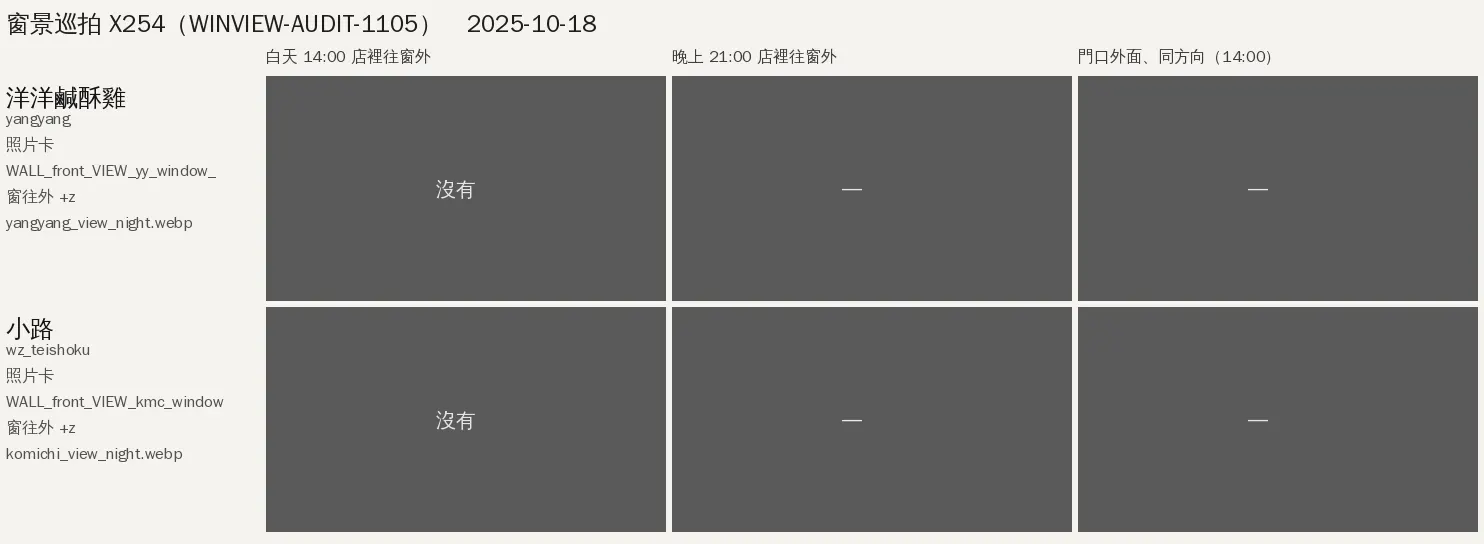
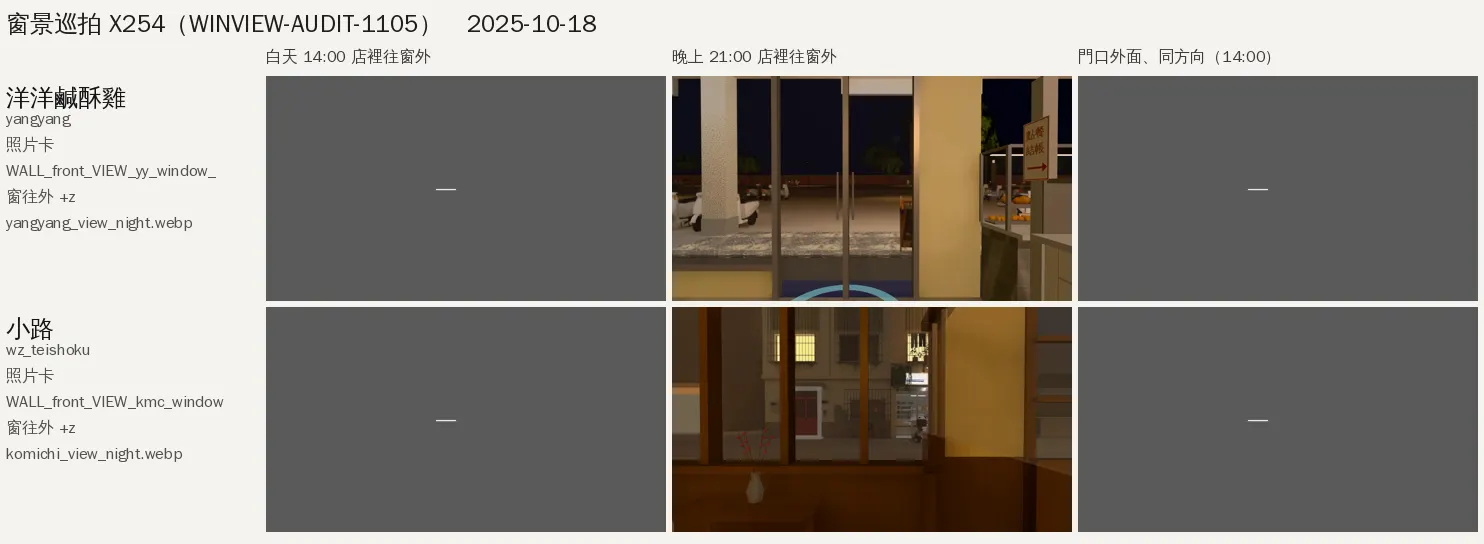
CC（帳號 A）X254 補拍：拼圖 own 欄只找 day＝TEST_BUG 修好重做；探針 r2（OWN_ALL、玻璃範圍夾站位、MAXD）；排 own2／haopai2／tea21
Claude-Session: https://claude.ai/code/session_01TdESzxBpdGoPhdkPD2ENce

Changed region(s): [[0.434, 0.125, 0.7439, 1.0], [0.279, 0.75, 0.341, 0.7812], [0.279, 0.3438, 0.31, 0.375]]

diff --git a/docs/story_planning/test_tools/cc/cc_winview_audit_probe.py b/docs/story_planning/test_tools/cc/cc_winview_audit_probe.py
@@ -15,6 +15,7 @@
   只 check：進得了那個區域、窗景卡找得到、截圖有存；美術像不像 BB 判（不判 PASS／FAIL）。21:00 店關了：讀檔放得進去就照拍，放不進去寫 INFO。
   輸出：<out>/winview_audit.json（每間：zone、窗的位置朝向、窗景卡網格名／貼圖網址、店內站位、街上站位、截圖檔名）＋截圖 wv_<key>_*.png；拼圖用 cc_winview_montage.py（雲端，PIL）。
   Windows＋GPU／SwiftShader ≠ iPhone。
+r2（BB 11:48）：OWN_ALL=1（own 也拍全部時段＋門外）；MAXD_<key>＝鏡頭離窗最多幾公尺；鏡頭左右夾在同一面牆的玻璃範圍內（2:30 AM 東窗只拍到牆）。
 用法：LW_TESTS=<wt>/tests [SHOPS=gen5,xs_shanlan,...] [HOURS=14,21] [DAY=2025-10-18] [MAXCARDS=2] [STREET_OWN=0] [WAIT=9000] [LENS=18] python3 cc_winview_audit_probe.py <url> <out>"""
 import os, sys, json, math, asyncio
 HERE = os.path.dirname(os.path.abspath(__file__))
@@ -32,6 +33,8 @@ DAY = os.environ.get('DAY') or '2025-10-18'
 HOURS = [float(h) for h in (os.environ.get('HOURS') or '14,21').split(',') if h.strip()]
 MAXCARDS = int(os.environ.get('MAXCARDS') or 2)
 STREET_OWN = os.environ.get('STREET_OWN', '0') == '1'
+OWN_ALL = os.environ.get('OWN_ALL', '0') == '1'   # r2（BB 11:48）：own 也拍 HOURS 全部＋門外街景（打烊放不進去照舊寫 INFO）
+if OWN_ALL: STREET_OWN = True
 WAIT = int(os.environ.get('WAIT') or 9000)
 LENS = float(os.environ.get('LENS') or 18)   # 店裡往窗外的鏡頭：18＝水平 90°（和窗景照片同一個視角；11-10 試跑 22 太窄、只看到窗台）
 STREETS = ('gongguan', 'wenzhou', 'xinsheng', 'lane118', 'campus')
@@ -241,15 +244,27 @@ async def do_shop(pg, cdp, key, zone, name, group):
         if not v['virtual']:
             dp = (c['c'][0] - eye_xz[0]) * out[0] + (c['c'][2] - eye_xz[1]) * out[1]
             if dp < 1.2: eye_xz = [eye_xz[0] - out[0] * (1.2 - dp), eye_xz[1] - out[1] * (1.2 - dp)]   # 離玻璃至少 1.2 m（太近只看到窗框、斜著擦過玻璃）
+        if not v['virtual']:
+            mxd = os.environ.get('MAXD_%s' % key)   # r2（BB 11:48 好拍白天鏡頭朝店裡）：鏡頭離卡最多幾公尺
+            dp = (c['c'][0] - eye_xz[0]) * out[0] + (c['c'][2] - eye_xz[1]) * out[1]
+            if mxd and dp > float(mxd): eye_xz = [eye_xz[0] + out[0] * (dp - float(mxd)), eye_xz[1] + out[1] * (dp - float(mxd))]; R.note('%s MAXD_%s=%s：鏡頭往窗移 %.2f m' % (vt, key, mxd, dp - float(mxd)))
+            # r2（BB 11:48 2:30 AM 東窗只拍到牆）：同一面牆的玻璃（平面差 <3 m、同一軸）左右範圍；鏡頭左右在範圍外就夾進去（留 0.4 m）
+            gl = [g for g in cards if g['kind'] == 'glass' and g['vis'] and g['lv'] == c['lv'] and card_axis(g) == ax and abs(g['c'][ax] - c['c'][ax]) < 3 and min(g['size'][0], g['size'][2]) < 0.3 and g['size'][lat_ax] > 0.8]
+            if gl:
+                lo = min(g['c'][lat_ax] - g['size'][lat_ax] / 2 for g in gl) + 0.4; hi = max(g['c'][lat_ax] + g['size'][lat_ax] / 2 for g in gl) - 0.4
+                li = 0 if lat_ax == 0 else 1; e0 = eye_xz[li]
+                if hi > lo and not (lo <= e0 <= hi):
+                    eye_xz[li] = min(max(e0, lo), hi); R.note('%s 鏡頭左右 %.2f 在同一面牆的玻璃範圍 [%.2f, %.2f] 外：夾到 %.2f' % (vt, e0, lo, hi, eye_xz[li]))
         eye = [round(eye_xz[0], 3), round(fy + eyeh, 3), round(eye_xz[1], 3)]
         look = [c['c'][0], round(fy + eyeh - 0.05, 3), c['c'][2]]
+        if not v['virtual'] and gl and c['size'][lat_ax] <= 3: look[lat_ax] = eye[lat_ax]   # 窄的卡：照鏡頭左右正對
         if not v['virtual'] and c['size'][lat_ax] > 3:   # 寬的窗（放大的視差窗、整面玻璃）：正對著看（看的點＝鏡頭在窗面上的投影，左右夾在窗的範圍內 0.5 m）
             half = c['size'][lat_ax] / 2 - 0.5; e_lat = eye[lat_ax]; look[lat_ax] = round(min(max(e_lat, c['c'][lat_ax] - half), c['c'][lat_ax] + half), 3)
         if abs(look[0] - eye[0]) < 0.05 and abs(look[2] - eye[2]) < 0.05: look = [eye[0] + out[0] * 3, look[1], eye[2] + out[1] * 3]
         R.note('%s 窗往外 %s（%s）；店內站位：%s；人放在 %s（第 %d 層）；鏡頭 eye %s → look %s' % (vt, J(out), '+x 東' if out == [1.0, 0.0] else '-x 西' if out == [-1.0, 0.0] else '+z' if out == [0.0, 1.0] else '-z' if out == [0.0, -1.0] else '', where, J(put), c['lv'], J(eye), J(look)))
         vrec = {'card': c['name'], 'kind': c['kind'], 'url': c.get('url'), 'center': c['c'], 'size': c['size'], 'lv': c['lv'], 'out': out, 'virtual': v['virtual'],
                 'dedicated': dedicated(c), 'inside': {'where': where, 'player': put, 'eye': eye, 'look': look}, 'shots': {}}
-        hrs = HOURS[:1] if group == 'own' else HOURS
+        hrs = HOURS[:1] if (group == 'own' and not OWN_ALL) else HOURS
         for h in hrs:
             tn = 'day' if 6 <= h < 18.8 else 'night'
             R.setup('%s %05.2f 讀檔把人放到 %s（第 %d 層）' % (vt, h, J(put), c['lv']))

diff --git a/docs/story_planning/test_tools/cc/cc_winview_montage.py b/docs/story_planning/test_tools/cc/cc_winview_montage.py
@@ -41,7 +41,7 @@ def rows_of(shops):
             rows.append((s, None, [None, None, None])); continue
         for k, v in enumerate(views):
             sh = v.get('shots') or {}
-            if s.get('group') == 'own': cells = [sh.get('day'), '—', sh.get('street') or '—']
+            if s.get('group') == 'own': cells = [sh.get('day') or ('—' if 'day' not in sh else None), sh.get('night') or ('—' if 'night' not in sh else None), sh.get('street') or '—']   # 11-10 r1：own 用 19 時拍的是 night，舊版只找 day＝洋洋、小路拼圖空白（TEST_BUG）
             else: cells = [sh.get('day'), sh.get('night'), sh.get('street')]
             rows.append((s, (k, v), cells))
     return rows

diff --git a/docs/story_planning/CC/CC_01_測試執行紀錄.md b/docs/story_planning/CC/CC_01_測試執行紀錄.md
@@ -872,3 +872,7 @@
     - 2:30 AM（東窗照片卡）：鏡頭前只看到米色牆，可能是站位對不到卡＝**探針站位待查**。
     - afar、青木的窗外很像（同一排盆栽椰子）。
     - 慢輪 21:00 沒開、南洋沒有窗＝INFO。
+- **BB 11:48 判 X254**（BB_255）：CC 五項觀察同意；afar／青木一樣＝青木要重拍（遊戲美術，不是探針）。補拍：
+  - 洋洋、小路拼圖空白＝**CC 拼圖 TEST_BUG**：own 欄只找 `_day`，19 時拍的是 `_night`。已修 cc_winview_montage，重做 winview_yangyang_komichi_19.webp（照片其實有拍到；欄名寫 21:00，實際是 19:00）。
+  - 探針 r2：OWN_ALL（own 也拍 14／21 時＋門外，打烊照實 INFO）；鏡頭左右夾在同一面牆的玻璃範圍（2:30 AM 東窗玻璃 z −3.6～2.6，舊站位在 z 3.85＝只拍到牆）；MAXD_<店>（好拍白天鏡頭離窗 5 m 看成店裡 → 1.6 m）。
+  - 排在佇列最後：WINVIEW_own2、WINVIEW_haopai2、WINVIEW_tea21（同一版 9d4c54c16）。慢輪 21:00 沒開，不補。
